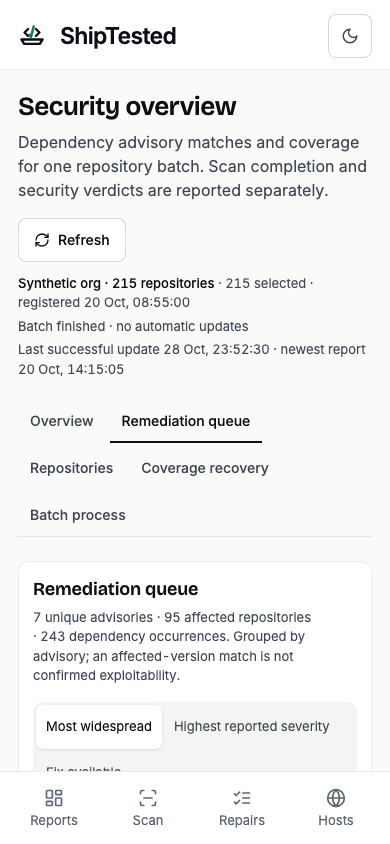
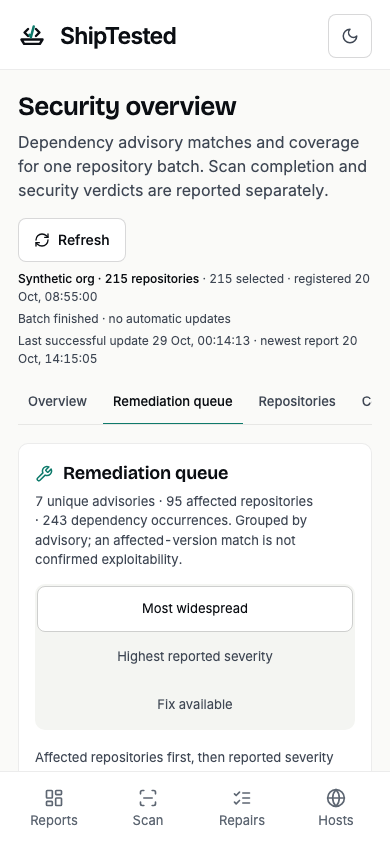
style(dashboard): polish responsive remediation and recovery views

diff --git a/src/app/security-overview/views.tsx b/src/app/security-overview/views.tsx
@@ -1,7 +1,7 @@
 'use client';
 import {useEffect,useRef,useState} from 'react';
 import Link from 'next/link';
-import {ArrowUpRight,Search,X} from 'lucide-react';
+import {ArrowUpRight,Search,X,Wrench,FileSearch} from 'lucide-react';
 import {batchLabels,batchStates,type BatchState} from '@/lib/batch-progress';
 import {remediationModes,remediationLabels,remediationDescriptions,recoveryActions,type RemediationMode,gapCodes,gapLabels,stageLabels,severities,verdicts,type GapCode,type Severity,type Verdict,type CoverageStage} from '@/lib/security-dashboard';
 import type {Loaded,Nav} from './security-dashboard';
@@ -57,7 +57,7 @@ function QueueRanking({value,nav}:{value:RemediationMode;nav:Nav}){
  return <div className={styles.ranking}><Segmented<RemediationMode> label="Rank remediation queue" value={value} options={remediationModes.map(value=>({value,label:remediationLabels[value]}))} onChange={sort=>nav({sort})}/><p className={styles.note}>{remediationDescriptions[value]}</p></div>;
 }
 function FixSummary({g}:{g:Of<'fixFirst'>['fixFirst'][number]}){
- return <span className={styles.source}>{g.packages.map(p=>p.name).join(' · ')} · {g.hasFix?'Fixed version recorded for at least one version':'No fixed version recorded'} · Open evidence for exact versions and manifests</span>;
+ return <div className={styles.fixSummary}><span className={styles.packageNames}>{g.packages.map(p=>p.name).join(' · ')}</span><span>{g.hasFix?'Fix recorded for some versions':'No fix recorded'}</span></div>;
 }
 function RecoverySteps({gaps}:{gaps:GapCode[]}){
  const actions=recoveryActions(gaps);
@@ -69,7 +69,7 @@ export function OverviewView({data,nav}:{data:Of<'fixFirst'>;nav:Nav}){
  return <div className={styles.stackGap}>
   <div className={styles.batchStrip}><span><strong>{n(op.completed)} / {n(o.batch.total)}</strong> scans completed</span><button type="button" onClick={()=>nav({view:'process'})}>{n(op.failed+op.cancelled)} failed or cancelled · {n(op.skipped)} skipped · {n(op.waiting+op.queued+op.running)} remaining</button><button type="button" onClick={()=>nav({view:'coverage',recovery:'needed'})}>Review coverage gaps <ArrowUpRight size={14} aria-hidden="true"/></button></div>
   <section className={styles.panel} aria-labelledby="first-h">
-   <div className={styles.sectionHead}><div><h2 id="first-h">Remediation queue</h2><p className={styles.note}>One advisory, every affected repository. Choose a ranking, then inspect the evidence before changing dependencies.</p></div><button type="button" className={styles.linkButton} onClick={()=>nav({view:'findings'})}>Open full queue</button></div>
+   <div className={styles.sectionHead}><div><h2 id="first-h" className={styles.sectionTitle}><Wrench size={18} aria-hidden="true"/>Remediation queue</h2><p className={styles.note}>One advisory, every affected repository. Choose a ranking, then inspect the evidence before changing dependencies.</p></div><button type="button" className={styles.linkButton} onClick={()=>nav({view:'findings'})}>Open full queue</button></div>
    <QueueRanking value={data.filters.sort} nav={nav}/>
    {data.fixFirst.length?<ol className={styles.queue}>{data.fixFirst.map((g,i)=><li key={g.key}>
     <span className={styles.rank}>{i+1}</span>
@@ -127,20 +127,20 @@ function GapBars({counts,denominator,nav}:{counts:Record<GapCode,number>;denomin
 export function FindingsView({data,nav}:{data:Of<'findings'>;nav:Nav}){
  const f=data.findings,o=data.overview,flt=data.filters;
  return <section className={styles.panel} aria-labelledby="find-h">
-  <div className={styles.sectionHead}><div><h2 id="find-h">Remediation queue</h2><p className={styles.note}>{n(o.findings.uniqueAdvisories)} unique advisories · {n(o.findings.affectedRepositories)} affected repositories · {n(o.findings.occurrences)} dependency occurrences. Grouped by advisory; an affected-version match is not confirmed exploitability.</p></div></div>
+  <div className={styles.sectionHead}><div><h2 id="find-h" className={styles.sectionTitle}><Wrench size={18} aria-hidden="true"/>Remediation queue</h2><p className={styles.note}>{n(o.findings.uniqueAdvisories)} unique advisories · {n(o.findings.affectedRepositories)} affected repositories · {n(o.findings.occurrences)} dependency occurrences. Grouped by advisory; an affected-version match is not confirmed exploitability.</p></div></div>
   <QueueRanking value={flt.sort} nav={nav}/>
   <div className={styles.toolbar}><SearchBox label="Search advisory, package or repository" value={flt.q} onChange={q=>nav({q})}/>
    <Segmented<Severity> label="Filter by severity" value={flt.severity} onChange={v=>nav({severity:v})} options={[{value:null,label:'All',count:o.findings.uniqueAdvisories},...severities.map(s=>({value:s,label:sevLabel[s],count:o.findings.bySeverity[s]}))]}/>
    <Clear active={!!(flt.q||flt.severity)} nav={nav} keys={['q','severity']}/></div>
-  {f.items.length?<div className={styles.tableWrap}><table className={styles.table}><caption className={styles.srOnly}>Advisories grouped across repositories</caption>
+  {f.items.length?<div className={`${styles.tableWrap} ${styles.responsiveWrap}`}><table role="table" className={`${styles.table} ${styles.responsiveTable}`}><caption className={styles.srOnly}>Advisories grouped across repositories</caption>
    <thead><tr><th scope="col">Advisory</th><th scope="col">Severity</th><th scope="col">Remediation</th><th scope="col" className={styles.num}>Repositories</th><th scope="col" className={styles.num}>Occurrences</th><th scope="col"><span className={styles.srOnly}>Evidence</span></th></tr></thead>
-   <tbody>{f.items.map(g=><tr key={g.key}>
-    <th scope="row"><span className={styles.advId}>{g.advisoryId||'Credential pattern'}</span><span className={styles.cellTitle}>{g.title}</span></th>
-    <td><SeverityTag level={g.severity}/><small className={styles.source}>{[g.cvss!==null&&!g.severitySources.some(x=>x.startsWith('CVSS'))?`CVSS ${g.cvss.toFixed(1)}`:null,...g.severitySources].filter(Boolean).join(' · ')||'Source not recorded'}</small></td>
-    <td><FixSummary g={g}/></td>
-    <td className={styles.num}><strong>{n(g.repositories)}</strong><small className={styles.source}>{g.repositorySample.join(', ')}{g.repositories>3?'…':''}</small></td>
-    <td className={styles.num}>{n(g.occurrences)}</td>
-    <td><button type="button" className="button" onClick={()=>nav({advisory:g.key},{keepPage:true})}>Evidence<span className={styles.srOnly}> for {g.advisoryId||g.title}</span></button></td>
+   <tbody role="rowgroup">{f.items.map(g=><tr role="row" key={g.key}>
+    <th role="rowheader" scope="row"><span className={styles.advId}>{g.advisoryId||'Credential pattern'}</span><span className={styles.cellTitle}>{g.title}</span></th>
+    <td role="cell" data-label="Severity"><SeverityTag level={g.severity}/><small className={styles.source}>{[g.cvss!==null&&!g.severitySources.some(x=>x.startsWith('CVSS'))?`CVSS ${g.cvss.toFixed(1)}`:null,...g.severitySources].filter(Boolean).join(' · ')||'Source not recorded'}</small></td>
+    <td role="cell" data-label="Remediation"><FixSummary g={g}/></td>
+    <td role="cell" data-label="Repositories" className={styles.num}><strong>{n(g.repositories)}</strong><details className={styles.repoSample}><summary>Sample repositories</summary><ul>{g.repositorySample.map(repo=><li key={repo}>{repo}</li>)}</ul>{g.repositories>3&&<span>Open evidence for all {n(g.repositories)} repositories.</span>}</details></td>
+    <td role="cell" data-label="Occurrences" className={styles.num}>{n(g.occurrences)}</td>
+    <td role="cell" className={styles.rowAction}><button type="button" className="button" onClick={()=>nav({advisory:g.key},{keepPage:true})}>Evidence<span className={styles.srOnly}> for {g.advisoryId||g.title}</span></button></td>
    </tr>)}</tbody></table></div>:<p className={styles.emptyLine}>No advisories match these filters.</p>}
   <Pager {...f} nav={nav} noun="advisories"/>
  </section>;
@@ -161,18 +161,18 @@ export function RepositoriesView({data,nav}:{data:Of<'repositories'>;nav:Nav}){
 type RepoItem=Of<'repositories'>['repositories']['items'][number];
 function RepoTable({items,coverage}:{items:RepoItem[];coverage:boolean}){
  if(!items.length)return <p className={styles.emptyLine}>No repositories match these filters.</p>;
- return <div className={styles.tableWrap}><table className={styles.table}><caption className={styles.srOnly}>Repositories with completed reports</caption>
+ return <div className={`${styles.tableWrap} ${coverage?styles.responsiveWrap:''}`}><table role="table" className={`${styles.table} ${coverage?styles.responsiveTable:''}`}><caption className={styles.srOnly}>Repositories with completed reports</caption>
   <thead><tr><th scope="col">Repository</th><th scope="col">Verdict</th>{!coverage&&<th scope="col" className={styles.num}>High</th>}{!coverage&&<th scope="col" className={styles.num}>Medium</th>}{!coverage&&<th scope="col" className={styles.num}>Low / unrated</th>}<th scope="col" className={styles.num}>Deps checked</th><th scope="col">Coverage</th>{coverage&&<th scope="col">Next step</th>}<th scope="col"><span className={styles.srOnly}>Report</span></th></tr></thead>
-  <tbody>{items.map(r=><tr key={r.repository}>
-   <th scope="row"><span className={styles.repoName}>{r.repository}</span>{coverage&&'omissions' in r&&<CoverageDetail r={r as CoverageItem}/>}</th>
-   <td><VerdictTag verdict={r.verdict}/></td>
+  <tbody role="rowgroup">{items.map(r=><tr role="row" key={r.repository}>
+   <th role="rowheader" scope="row"><span className={styles.repoName}>{r.repository}</span>{coverage&&'omissions' in r&&<CoverageDetail r={r as CoverageItem}/>}</th>
+   <td role="cell" data-label="Verdict"><VerdictTag verdict={r.verdict}/></td>
    {!coverage&&<td className={styles.num} data-sev={r.severityCounts.high?'high':undefined}>{r.severityCounts.high}</td>}
    {!coverage&&<td className={styles.num}>{r.severityCounts.medium}</td>}
    {!coverage&&<td className={styles.num}>{r.severityCounts.low} / {r.severityCounts.review}</td>}
-   <td className={styles.num} data-zero={r.dependencyCount===0||undefined}>{n(r.dependencyCount)}<small className={styles.source}>{r.manifests} manifests{r.omitted?` · ${r.omitted} omitted`:''}</small></td>
-   <td>{r.stage&&<span className={styles.stage} data-stage={r.stage}>{stageLabels[r.stage]}</span>}{r.gaps.filter(g=>g!=='zero_dependencies').length>0&&<ul className={styles.chips}>{r.gaps.filter(g=>g!=='zero_dependencies').map(g=><li key={g}>{gapLabels[g].label}</li>)}</ul>}</td>
-   {coverage&&<td><RecoverySteps gaps={r.gaps}/></td>}
-   <td>{r.reportId&&<Link href={reportHref(r.reportId)}>Report<span className={styles.srOnly}> for {r.repository}</span></Link>}{r.refreshed&&<small className={styles.source}>refreshed revision</small>}</td>
+   <td role="cell" data-label="Dependencies checked" className={styles.num} data-zero={r.dependencyCount===0||undefined}>{n(r.dependencyCount)}<small className={styles.source}>{r.manifests} manifests{r.omitted?` · ${r.omitted} omitted`:''}</small></td>
+   <td role="cell" data-label="Coverage">{r.stage&&<span className={styles.stage} data-stage={r.stage}>{stageLabels[r.stage]}</span>}{r.gaps.filter(g=>g!=='zero_dependencies').length>0&&<ul className={styles.chips}>{r.gaps.filter(g=>g!=='zero_dependencies').map(g=><li key={g}>{gapLabels[g].label}</li>)}</ul>}</td>
+   {coverage&&<td role="cell" data-label="Next step"><RecoverySteps gaps={r.gaps}/></td>}
+   <td role="cell" className={styles.rowAction}>{r.reportId&&<Link href={reportHref(r.reportId)}>Report<span className={styles.srOnly}> for {r.repository}</span></Link>}{r.refreshed&&<small className={styles.source}>refreshed revision</small>}</td>
   </tr>)}</tbody></table></div>;
 }
 
@@ -191,7 +191,7 @@ export function CoverageView({data,nav}:{data:Of<'repositories'>;nav:Nav}){
  const steps=[['Report saved','completed reports',p.reports],['Manifest scanned','≥1 supported manifest read',p.manifestScanned],['Exact versions resolved','≥1 pinned dependency',p.versionsResolved],['Advisory lookup complete','no provider, deadline or limit gap',p.lookupComplete]] as const;
  return <div className={styles.stackGap}>
   <section className={styles.panel} aria-labelledby="covlist-h">
-   <div className={styles.sectionHead}><div><h2 id="covlist-h">Coverage recovery</h2><p className={styles.note}>Recover missing evidence before trusting a clean result. These actions are guidance; no scan, retry or dependency change is started here.</p></div><button type="button" className={styles.linkButton} onClick={()=>nav({view:'process',state:'failed'})}>Inspect failed scans</button></div>
+   <div className={styles.sectionHead}><div><h2 id="covlist-h" className={styles.sectionTitle}><FileSearch size={18} aria-hidden="true"/>Coverage recovery</h2><p className={styles.note}>Recover missing evidence before trusting a clean result. These actions are guidance; no scan, retry or dependency change is started here.</p></div><button type="button" className={styles.linkButton} onClick={()=>nav({view:'process',state:'failed'})}>Inspect failed scans</button></div>
    <Segmented label="Recovery scope" value={flt.recovery} options={[{value:'needed',label:'Needs recovery'},{value:null,label:'All reports'}]} onChange={recovery=>nav({recovery})}/>
    <div className={styles.toolbar}><SearchBox label="Search repositories" value={flt.q} onChange={q=>nav({q})}/>
     <label className={styles.select}><span>Gap</span><select value={flt.gap||''} onChange={e=>nav({gap:e.target.value||null})}><option value="">Any</option>{gapCodes.map(g=><option key={g} value={g}>{gapLabels[g].label} ({o.gaps.counts[g]})</option>)}</select></label>

diff --git a/src/app/security-overview/security.module.css b/src/app/security-overview/security.module.css
@@ -156,3 +156,56 @@
 .batchStrip strong{color:var(--text)}.batchStrip button{display:inline-flex;align-items:center;gap:4px;min-height:36px;background:none;border:0;padding:0;font:inherit;color:var(--accent);cursor:pointer;text-align:left}.batchStrip button:hover{text-decoration:underline}
 .ranking{display:grid;justify-items:start;gap:8px;margin:16px 0 20px}.ranking .note{margin:0}
 .recoverySteps{min-width:240px;max-width:360px;line-height:1.5}.recoverySteps strong{font-weight:500;color:var(--text)}.recoverySteps p{margin:4px 0 10px;color:var(--body2)}.recoverySteps summary{cursor:pointer;color:var(--accent);min-height:32px}.recoverySteps details>div{margin-top:12px}
+
+/* Evidence-first polish: shared brand tokens, compact desktop rows, full-width mobile actions. */
+.sectionTitle{display:flex;align-items:center;gap:10px}.sectionTitle svg{color:var(--accent);flex:none}
+.page .tabs{flex-wrap:nowrap;gap:6px;scrollbar-width:thin;scrollbar-color:var(--card) transparent}
+.page .tabs a{padding:12px 10px}
+.page .tabs a[aria-current=page]{border-bottom-color:var(--accent)}
+.page :is(button,a,input,select,summary):focus-visible{outline:2px solid var(--accent);outline-offset:3px}
+.page :is(input,select){caret-color:var(--accent)}
+.page ::selection{background:var(--accent);color:var(--bg)}
+.sectionHead{gap:12px 24px}.sectionHead>.linkButton{flex:none}
+.ranking{gap:10px;padding-bottom:16px;border-bottom:1px solid var(--line)}
+.segmented{width:fit-content;max-width:100%;margin-bottom:8px}.segmented button{min-height:40px}
+.segmented button[aria-pressed=true]{box-shadow:none;outline:1px solid var(--card)}
+.fixSummary{display:grid;gap:3px;font-size:13px;line-height:1.5;color:var(--body2)}
+.packageNames{font-family:var(--mono);font-size:12px;color:var(--text);overflow-wrap:anywhere}
+.queue>li{padding:18px 0}.queueMain{gap:8px}.queueMeta{gap:7px;min-width:140px}
+.titleButton{font-size:15px;line-height:1.5}.titleButton .advId{font-size:12px;color:var(--muted)}
+.queueMeta>span:last-child{max-width:200px}.queueMeta strong{font-size:14px}
+.responsiveTable tbody th{width:28%;min-width:200px}.responsiveTable .num .source{white-space:normal;min-width:120px;max-width:210px;text-align:left}
+.responsiveTable td[data-label="Remediation"]{min-width:160px}
+.rowAction a{display:inline-flex;align-items:center;min-height:40px;font-weight:500;text-underline-offset:4px}
+.recoverySteps{min-width:200px;max-width:320px}.recoverySteps summary{min-height:44px;padding:4px 0;line-height:1.5;font-weight:500;list-style-position:outside;margin-left:14px}
+.recoverySteps[open]{padding:0 0 4px}.recoverySteps[open]>div{padding-top:12px;border-top:1px solid var(--line)}
+.recoverySteps p{font-size:13px;line-height:1.6}.details summary{min-height:40px;width:auto;overflow-wrap:anywhere}.details code{word-break:break-word}
+@media(max-width:900px){
+ .responsiveWrap{overflow:visible;border:0;border-radius:0;margin:0}
+ .responsiveTable,.responsiveTable tbody{display:block;width:100%}
+ .responsiveTable thead{position:absolute;width:1px;height:1px;padding:0;overflow:hidden;clip-path:inset(50%);white-space:nowrap}
+ .responsiveTable tbody tr{display:grid;grid-template-columns:1fr 1fr;gap:16px 20px;padding:22px 0;border-top:1px solid var(--card)}
+ .responsiveTable tbody tr:last-child{border-bottom:1px solid var(--line)}
+ .responsiveTable tbody tr:hover{background:transparent}
+ .responsiveTable tbody :is(th,td){display:block;width:auto;min-width:0;max-width:none;padding:0;border:0;text-align:left!important;white-space:normal;overflow-wrap:anywhere}
+ .responsiveTable tbody th{grid-column:1/-1;font-size:15px;line-height:1.5}
+ .responsiveTable td::before{content:attr(data-label);display:block;font-size:12px;font-weight:500;color:var(--muted);margin-bottom:6px}
+ .responsiveTable td[data-label="Coverage"],.responsiveTable td[data-label="Next step"],.responsiveTable .rowAction{grid-column:1/-1}
+ .responsiveTable .rowAction::before{display:none}
+ .responsiveTable .rowAction :is(button,a){display:flex;justify-content:center;width:100%;min-height:44px;border:1px solid var(--card);border-radius:8px;padding:8px 12px;box-sizing:border-box;background:var(--raised);color:var(--text);text-decoration:none}
+ .responsiveTable .num .source{min-width:0;max-width:none}.responsiveTable .recoverySteps{min-width:0;max-width:none}
+ .responsiveTable .chips li{white-space:normal;font-size:12px}.responsiveTable .cellTitle{font-size:15px}
+}
+@media(max-width:600px){
+ .page .tabs{margin-bottom:18px}.page .tabs a{font-size:13px;min-height:44px}
+ .heading{margin-bottom:8px}.freshness{font-size:12px;margin-bottom:12px}
+ .stackGap{gap:18px}.panel{padding:18px 16px}.panel h2{font-size:18px}
+ .ranking{margin-top:14px}.ranking .segmented{display:grid;grid-template-columns:1fr;width:100%;gap:4px}.ranking .segmented button{min-height:44px;justify-content:center}
+ .toolbar{gap:12px}.toolbar .search{flex-basis:100%;min-height:44px}.toolbar .select select{min-height:44px}
+ .queue>li{grid-template-columns:20px minmax(0,1fr);column-gap:10px}.queueMeta{min-width:0;margin-top:4px;gap:8px 12px}.queueMeta>span:last-child{max-width:none;width:100%}
+ .fixSummary{font-size:13px}.batchStrip{gap:4px 16px;padding-bottom:12px}.batchStrip button{min-height:40px}
+ .details{font-size:13px}.pagerButtons{width:100%;justify-content:space-between}.pagerButtons .button{min-height:44px}
+}
+
+.repoSample{white-space:normal;max-width:220px;font-size:12px;text-align:left;color:var(--body2);font-weight:400;margin-top:4px}.repoSample summary{cursor:pointer;min-height:32px;color:var(--accent);line-height:1.5}.repoSample ul{list-style:none;padding:0;margin:6px 0;display:grid;gap:8px}.repoSample li{overflow-wrap:anywhere}.repoSample span{display:block;line-height:1.5}
+@media(max-width:900px){.repoSample{max-width:none}.repoSample summary{min-height:44px;font-size:13px}}

diff --git a/tests/browser/security-dashboard.spec.ts b/tests/browser/security-dashboard.spec.ts
@@ -1,3 +1,4 @@
+import AxeBuilder from '@axe-core/playwright';
 import {test,expect,type Page} from '@playwright/test';
 import {mkdirSync} from 'node:fs';
 import {buildFixture,respond} from './security-fixture';
@@ -133,4 +134,47 @@ test('queue ranking and coverage recovery are deep-linked read-only workflows',a
  await expect(page.getByRole('button',{name:'Needs recovery',pressed:true})).toBeVisible();
  await page.getByRole('button',{name:'Inspect failed scans'}).click();await expect(page).toHaveURL(/view=process.*state=failed/);
  expect(writes).toEqual([]);
+});
+
+test('polished queues keep every action within mobile and tablet rows',async({page})=>{
+ await serve(page,()=>finished);
+ for(const width of [390,768,900,1440]){
+  await page.setViewportSize({width,height:1000});
+  for(const view of ['findings','coverage']){
+   await page.goto(`/security-overview?view=${view}${view==='coverage'?'&gap=python_syntax&recovery=needed':''}`);
+   const first=page.getByRole('row').nth(1);await expect(first).toBeVisible();
+   if(width<=900){
+    const bounds=await first.locator('th,td').evaluateAll(cells=>cells.map(c=>({left:c.getBoundingClientRect().left,right:c.getBoundingClientRect().right})));
+    expect(bounds.every(b=>b.left>=0&&b.right<=width)).toBe(true);
+   }
+   if(view==='coverage'){
+    await first.locator('summary').filter({hasText:'Resolve Python'}).click();
+    await expect(first.getByText(/reproducible exact-version dependency export/)).toBeVisible();
+   }
+   if(width===390||width===1440){
+    for(const t of ['dark','light'] as const){
+     await theme(page,t);await page.reload();await expect(page.getByRole('row').nth(1)).toBeVisible();
+     if(view==='coverage')await page.getByRole('row').nth(1).locator('summary').filter({hasText:'Resolve Python'}).click();
+     if(width===390)await page.getByRole('row').nth(1).screenshot({path:`${shots}/${view}-polished-mobile-${t}.png`});
+     else await page.screenshot({path:`${shots}/${view}-polished-desktop-${t}.png`});
+    }
+   }
+   expect(await noOverflow(page)).toBe(true);
+  }
+ }
+});
+
+
+test('polished dashboard controls pass automated accessibility checks in both themes',async({page})=>{
+ await serve(page,()=>finished);await page.setViewportSize({width:390,height:844});
+ for(const t of ['dark','light'] as const){
+  await theme(page,t);
+  for(const view of ['findings','coverage']){
+   await page.goto(`/security-overview?view=${view}`);await expect(page.getByRole('row').nth(1)).toBeVisible();
+   const result=await new AxeBuilder({page}).include('main').withTags(['wcag2a','wcag2aa','wcag21aa']).analyze();
+   expect(result.violations.map(v=>({id:v.id,nodes:v.nodes.map(n=>n.target)}))).toEqual([]);
+  }
+ }
+ await page.getByRole('row').nth(1).getByRole('link',{name:/Report/}).focus();
+ await expect(page.getByRole('row').nth(1).getByRole('link',{name:/Report/})).toBeFocused();
 });

diff --git a/docs/security-dashboard/README.md b/docs/security-dashboard/README.md
@@ -189,3 +189,9 @@ Coverage recovery (`view=coverage&recovery=needed`) filters to reports with reco
 These views only read existing reports. They do not change repositories, create repair PRs, submit scans, refresh advisories, reserve allowance, or claim that following guidance has recovered coverage. Authenticated workspace and owner filters and the public-demo refusal remain in place. No schema migration is required.
 
 Browser screenshots use the existing explicitly synthetic fixture; they are not evidence of live batch results.
+
+### Responsive polish — 29 October 2026
+
+The remediation and coverage tables retain desktop comparison columns. At widths up to 900px, the same semantic rows become full-width entries, with visible field labels, wrapping identifiers and report/evidence actions inside the viewport. Recovery instructions and manifest evidence remain expandable. Repository samples are disclosed on demand so long names do not bury the evidence action. Counts and recorded-fix semantics are unchanged.
+
+The polish uses existing ShipTested typography, theme colors and Lucide icons. Focus outlines and mobile action targets are explicit; no new motion or dependencies were added. Screenshot fixtures remain synthetic. Verification covers 390, 768, 900 and 1440px, both themes, keyboard focus, and automated WCAG accessibility checks of the dashboard main region.
